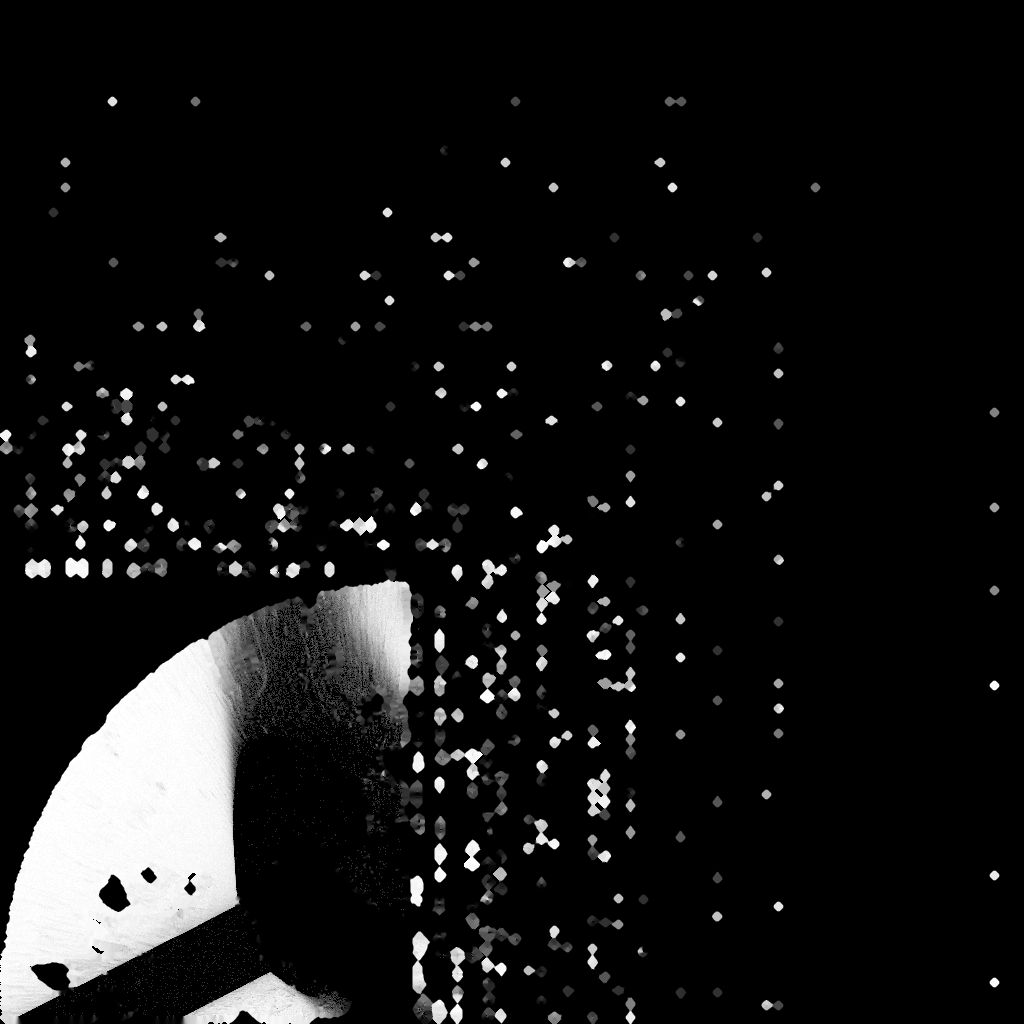
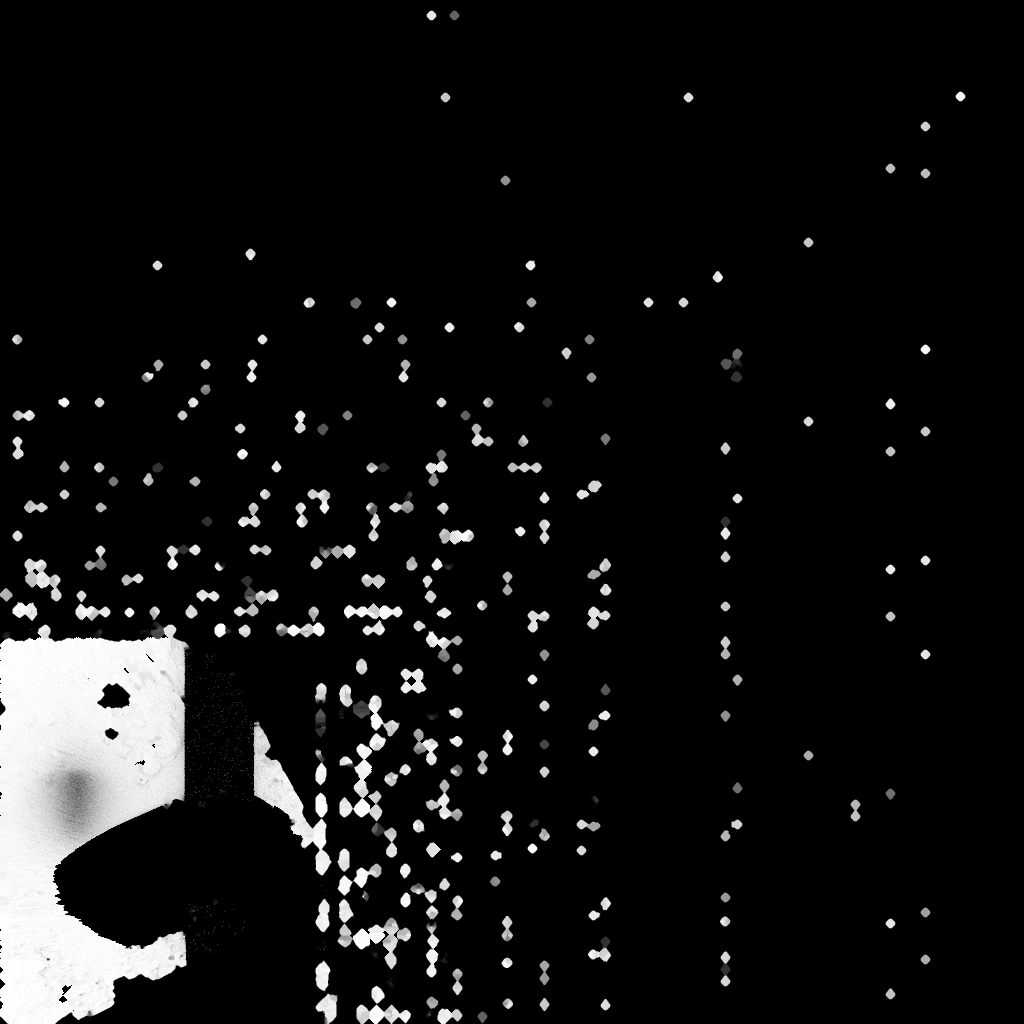
Clean rectangular Mars tile + wire it in as the walkable hero landing zone
Geometry cleanup: rover_xyz_to_mesh.py now crops a data-centered SQUARE tile (the old
forward-box collapsed because this frames ground spreads to one side, not straight
ahead) with block-median spike rejection -> a clean ~16x13.5 m tile (was a fan wedge).
Re-baked AO+albedo on the clean geometry. Wired into environment_engine._build_landing_zone:
the real Perseverance Sol 180 ground drops in at the player deploy point (0,~,160), sunk
flush into the surrounding terrain, with a trimesh collider so the mech stands on the
ACTUAL Mars surface. Verified in-game: mech deploys onto the real tile, no errors.

diff --git a/tools/rover_xyz_to_mesh.py b/tools/rover_xyz_to_mesh.py
@@ -40,24 +40,46 @@ def load_xyz(img_path, xml_path):
     return X, Y, Z, valid, L, S
 
 
-def build_mesh(img_path, xml_path, out_obj, stride=2, max_edge=0.35, max_range=16.0):
+def build_mesh(img_path, xml_path, out_obj, stride=2, max_edge=0.30,
+               half=8.0, z_spike=1.2):
     X, Y, Z, valid, L, S = load_xyz(img_path, xml_path)
 
-    # CLIP to the near-to-mid ground: beyond ~16 m a single stereo viewpoint smears
-    # distant terrain into long "fan" spikes (unreliable + ugly). Keep only the dense,
-    # accurate near ground — that's the real walkable patch.
-    horiz = np.sqrt(X * X + Y * Y)   # distance from the rover on the ground plane
-    valid &= (horiz < max_range)
+    # rover-nav -> Z-up world. Z is the (near-flat) vertical here; X and Y are both
+    # horizontal ground axes. The terrain isn't straight ahead — it spreads to one
+    # side — so crop a square centered on the DATA's own horizontal median, not on a
+    # hardcoded forward box (which collapsed to nothing).
+    WX = Y      # world x  (horizontal)
+    WY = X      # world y  (horizontal)
+    WZ = -Z     # world z  (up)
 
-    # rover-nav (X fwd, Y right, Z down) -> Z-up world
-    WX = Y
-    WY = X
-    WZ = -Z
+    mx = np.median(WX[valid])
+    my = np.median(WY[valid])
+    # a clean square tile of side 2*half, centered on the dense middle of the cloud
+    valid &= (np.abs(WX - mx) < half) & (np.abs(WY - my) < half)
 
-    # center the footprint on origin, drop ground to ~z=0
-    gx, gy, gz = WX[valid], WY[valid], WZ[valid]
+    # ground floor from the cropped region, so z=0 sits on the surface
+    gz = WZ[valid]
+    z0 = np.percentile(gz, 2)
+
+    # SPIKE rejection: drop stereo outliers whose height jumps far above the local
+    # median — these are the noisy rock-rim slivers. Compare each valid pixel's WZ to
+    # a coarse block median and cull the ones that spike up.
+    from math import inf
+    block = 24
+    zc = WZ - z0
+    for r0 in range(0, L, block):
+        for c0 in range(0, S, block):
+            sub = valid[r0:r0+block, c0:c0+block]
+            if sub.sum() < 8:
+                continue
+            zz = zc[r0:r0+block, c0:c0+block][sub]
+            med = np.median(zz)
+            bad = (zc[r0:r0+block, c0:c0+block] - med > z_spike) & sub
+            valid[r0:r0+block, c0:c0+block] &= ~bad
+
+    # center the (now rectangular) footprint on origin
+    gx, gy = WX[valid], WY[valid]
     cx, cy = gx.mean(), gy.mean()
-    z0 = np.percentile(gz, 2)   # ground floor
 
     # per-pixel vertex index map (subsampled by stride for a game-weight mesh)
     idx = -np.ones((L, S), dtype=np.int64)
